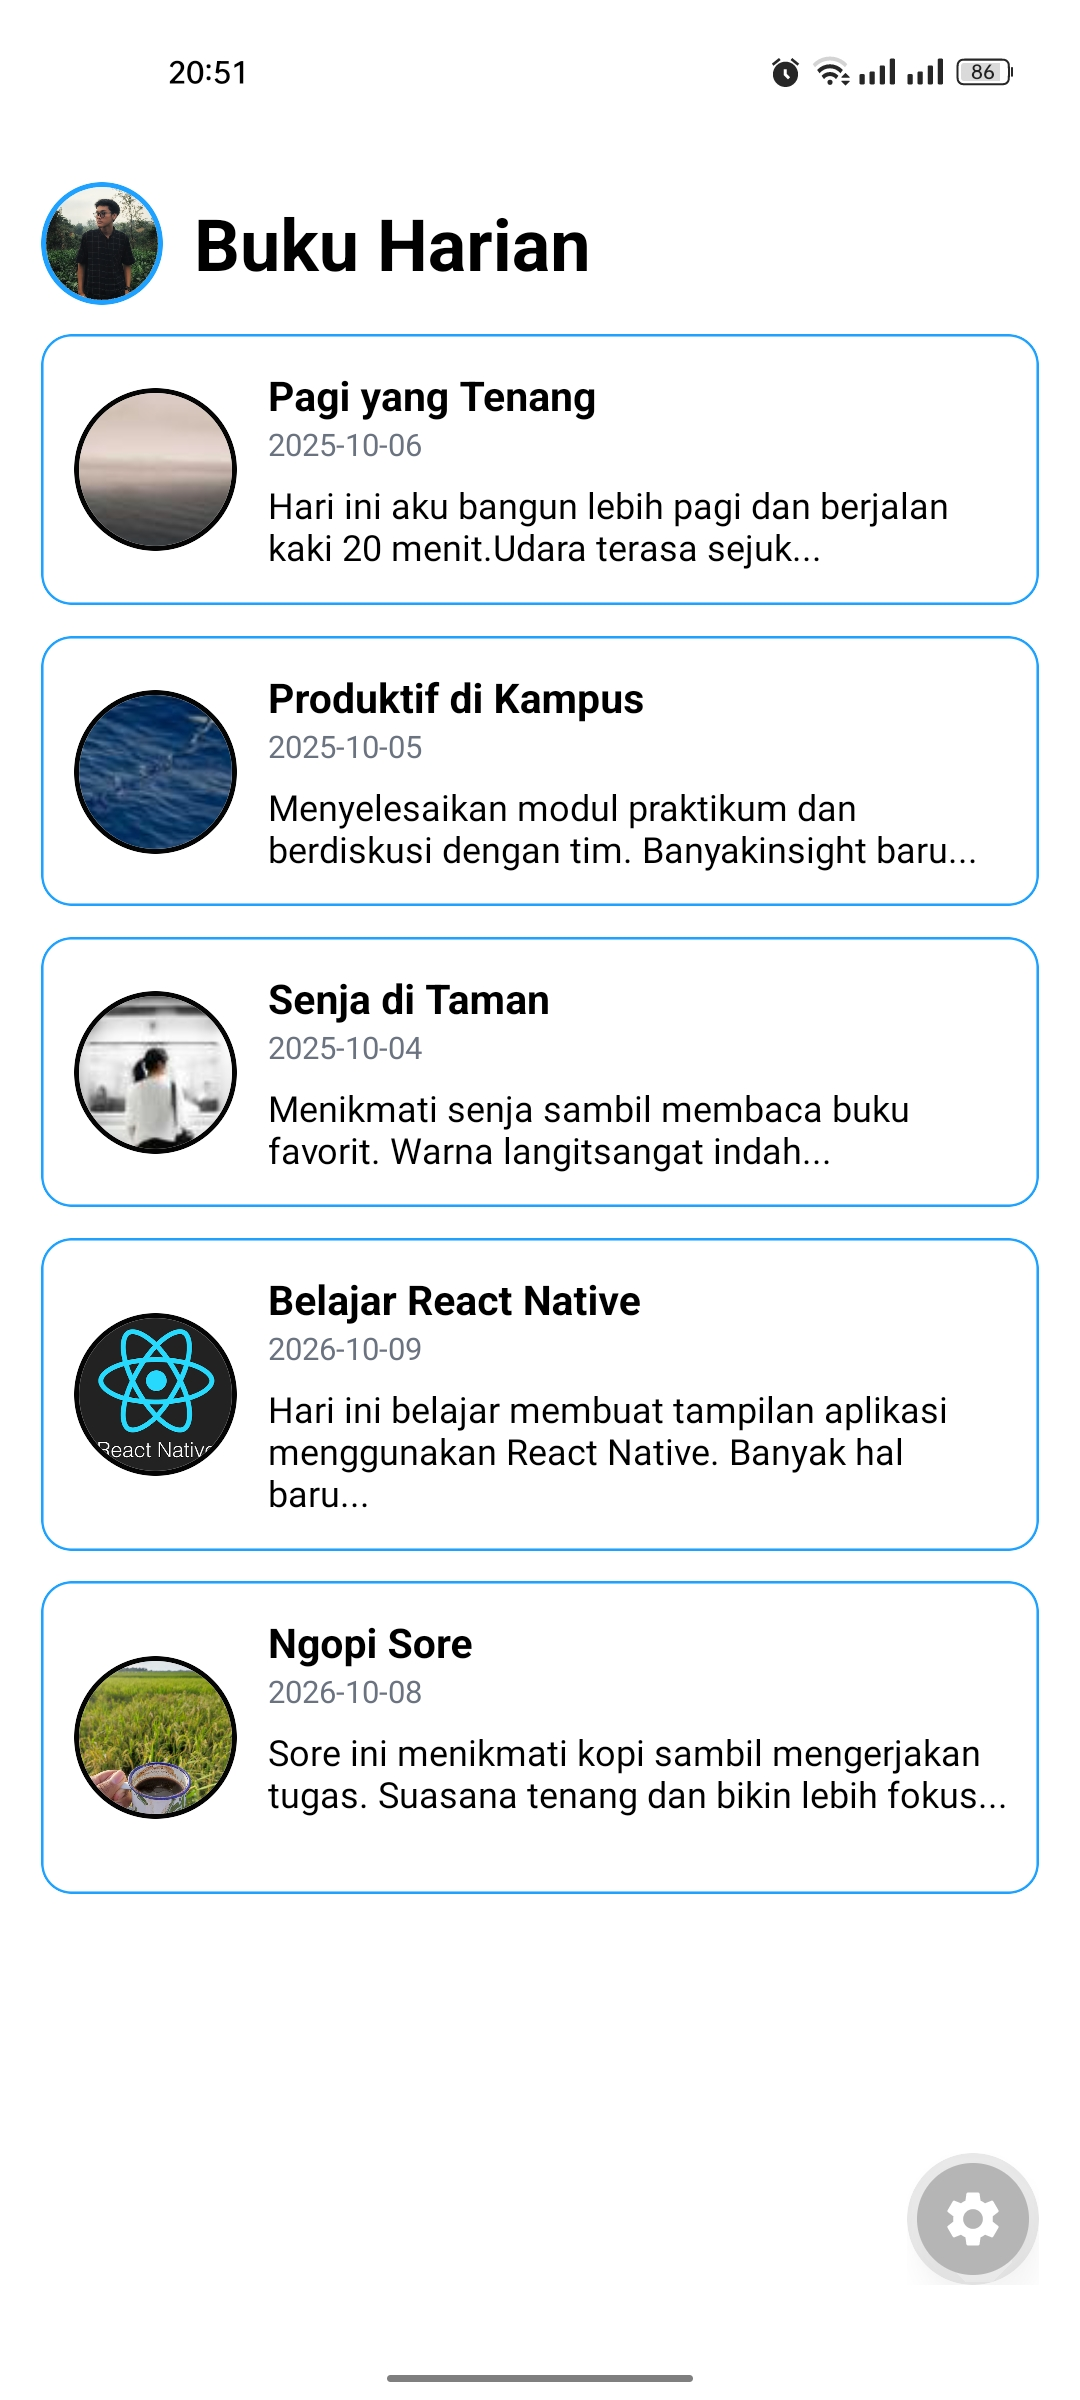
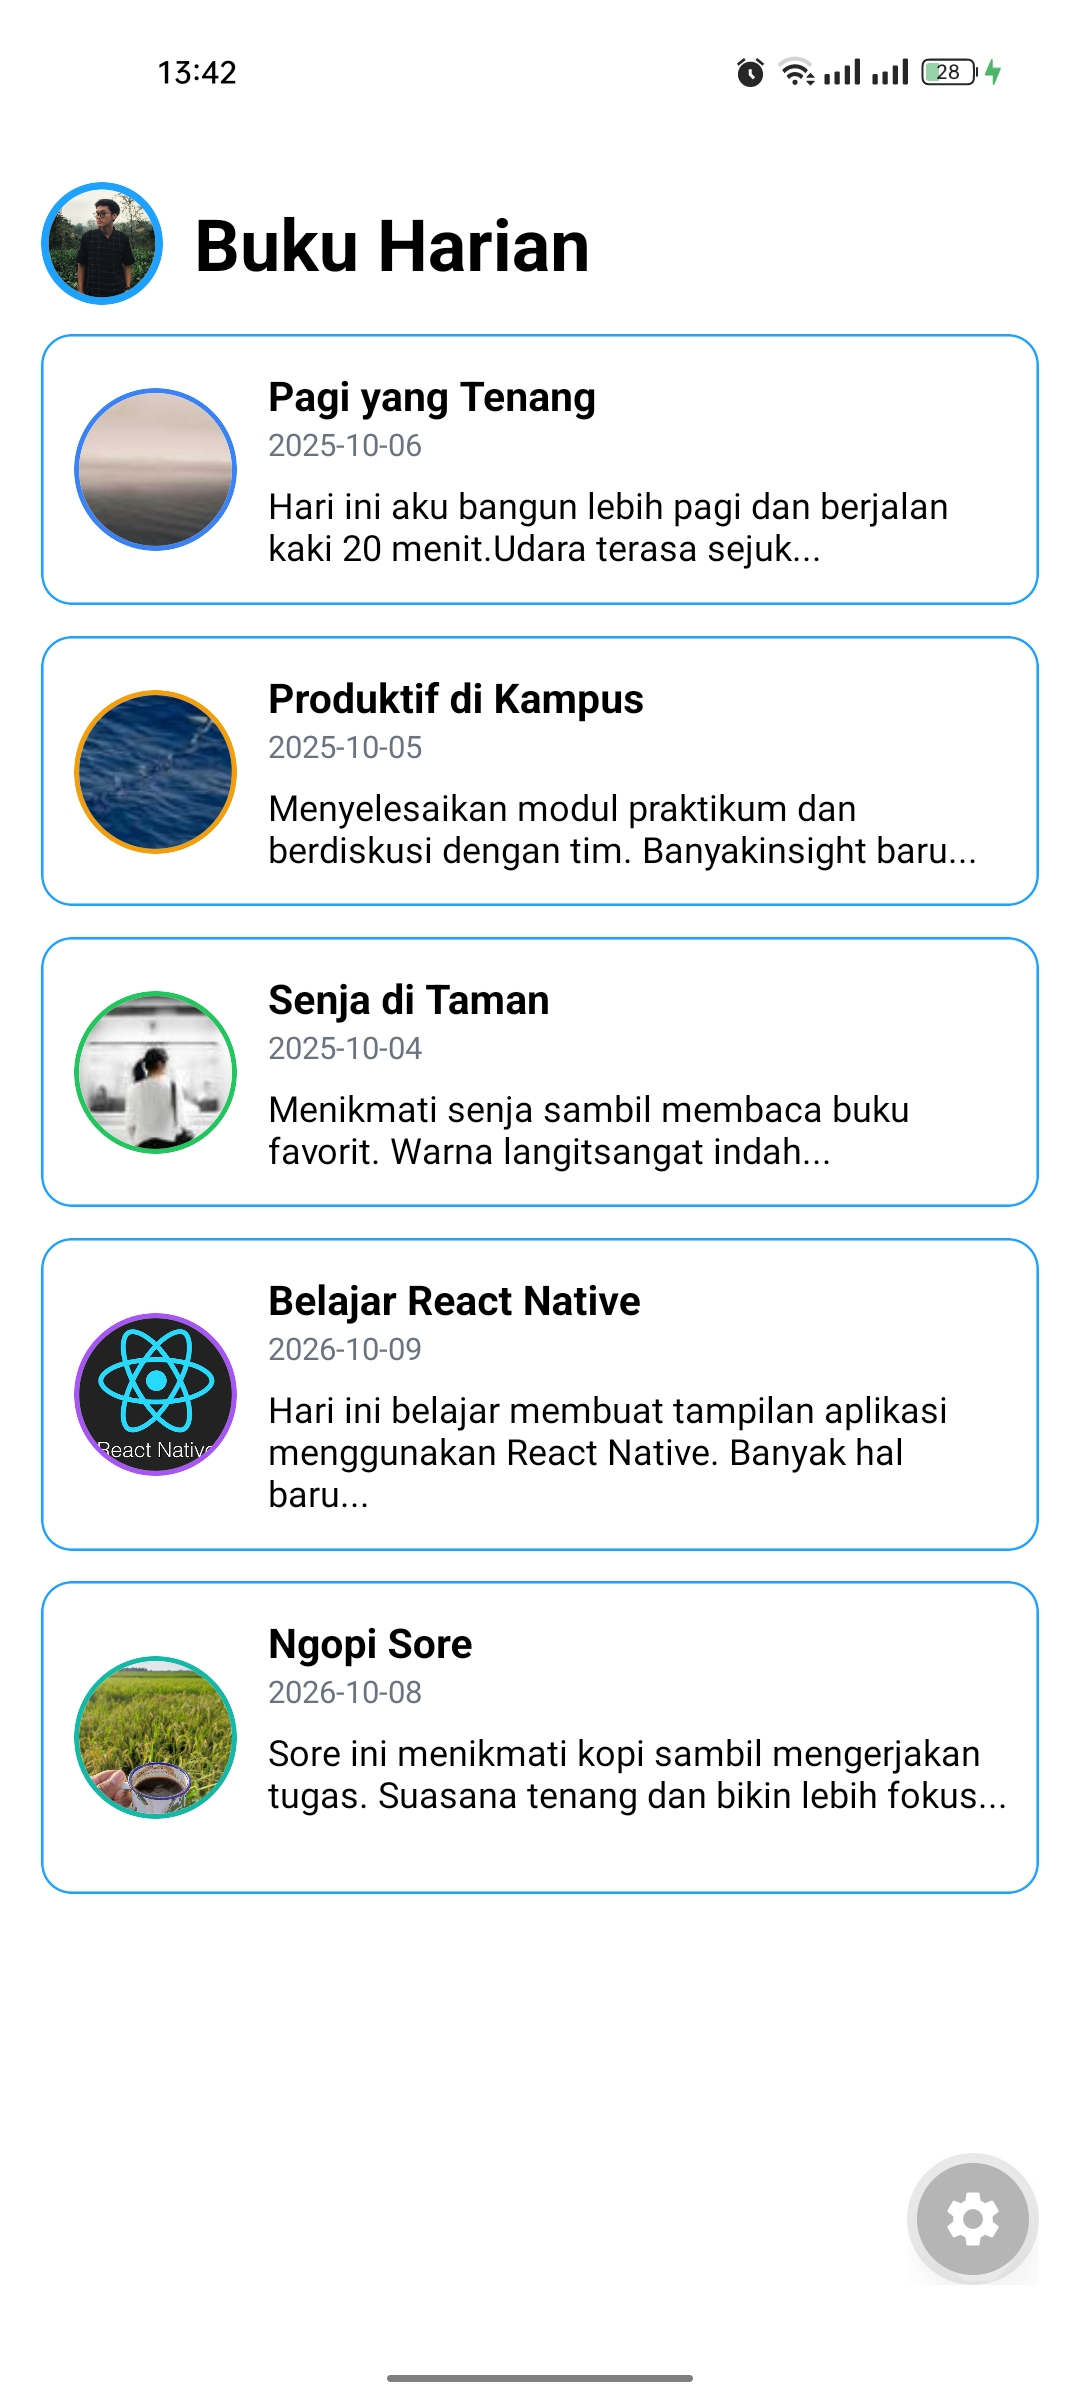
docs: update README

diff --git a/README.md b/README.md
@@ -37,9 +37,9 @@ Project ini menggunakan:
 
 - Menambahkan dua entri diary baru.
 - Menggunakan gambar remote dan lokal dari folder `assets/moods`.
-- Menampilkan avatar pengguna pada bagian header menggunakan `Image`.
-- Menambahkan variasi border dan outline pada card berdasarkan mood.
-- Mengelompokkan gambar pada folder `assets/moods` dan screenshot aplikasi pada folder `screenshots`.
+- Menampilkan avatar pengguna pada header menggunakan `Image`.
+- Menambahkan variasi warna border dan outline kartu secara dinamis berdasarkan mood.
+- Mengorganisasi konfigurasi warna pada `src/styles/moodColors.js`, aset gambar pada `assets/moods`, dan screenshot pada `screenshots`.
 
 ## Screenshot
 
